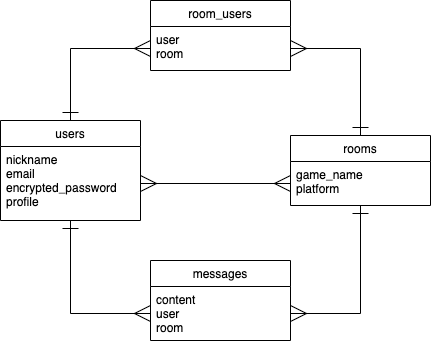
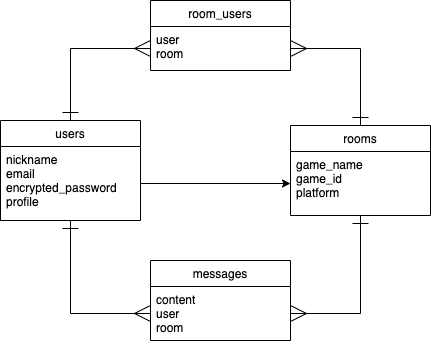
ゲーム種類のカラム追加

diff --git a/app/assets/stylesheets/messages.css b/app/assets/stylesheets/messages.css
@@ -1,0 +1,12 @@
+.wrapper {
+  display: flex;
+}
+.side-bar {
+  background-color: #99CCFF;
+  width: 300px;
+  height: calc(100vh - 80px);
+}
+.chat {
+  background-color: #FFFFFF;
+  width: calc(100vw - 300px);
+}

diff --git a/README.md b/README.md
@@ -32,6 +32,7 @@ game_matching
 | Column    | Type       | Options     |
 | --------- | ---------- | ----------- |
 | name      | string     | null: false |
+| game_id   | integer    | null: false |
 | platform  | string     | null: false |
 
 ### Association
